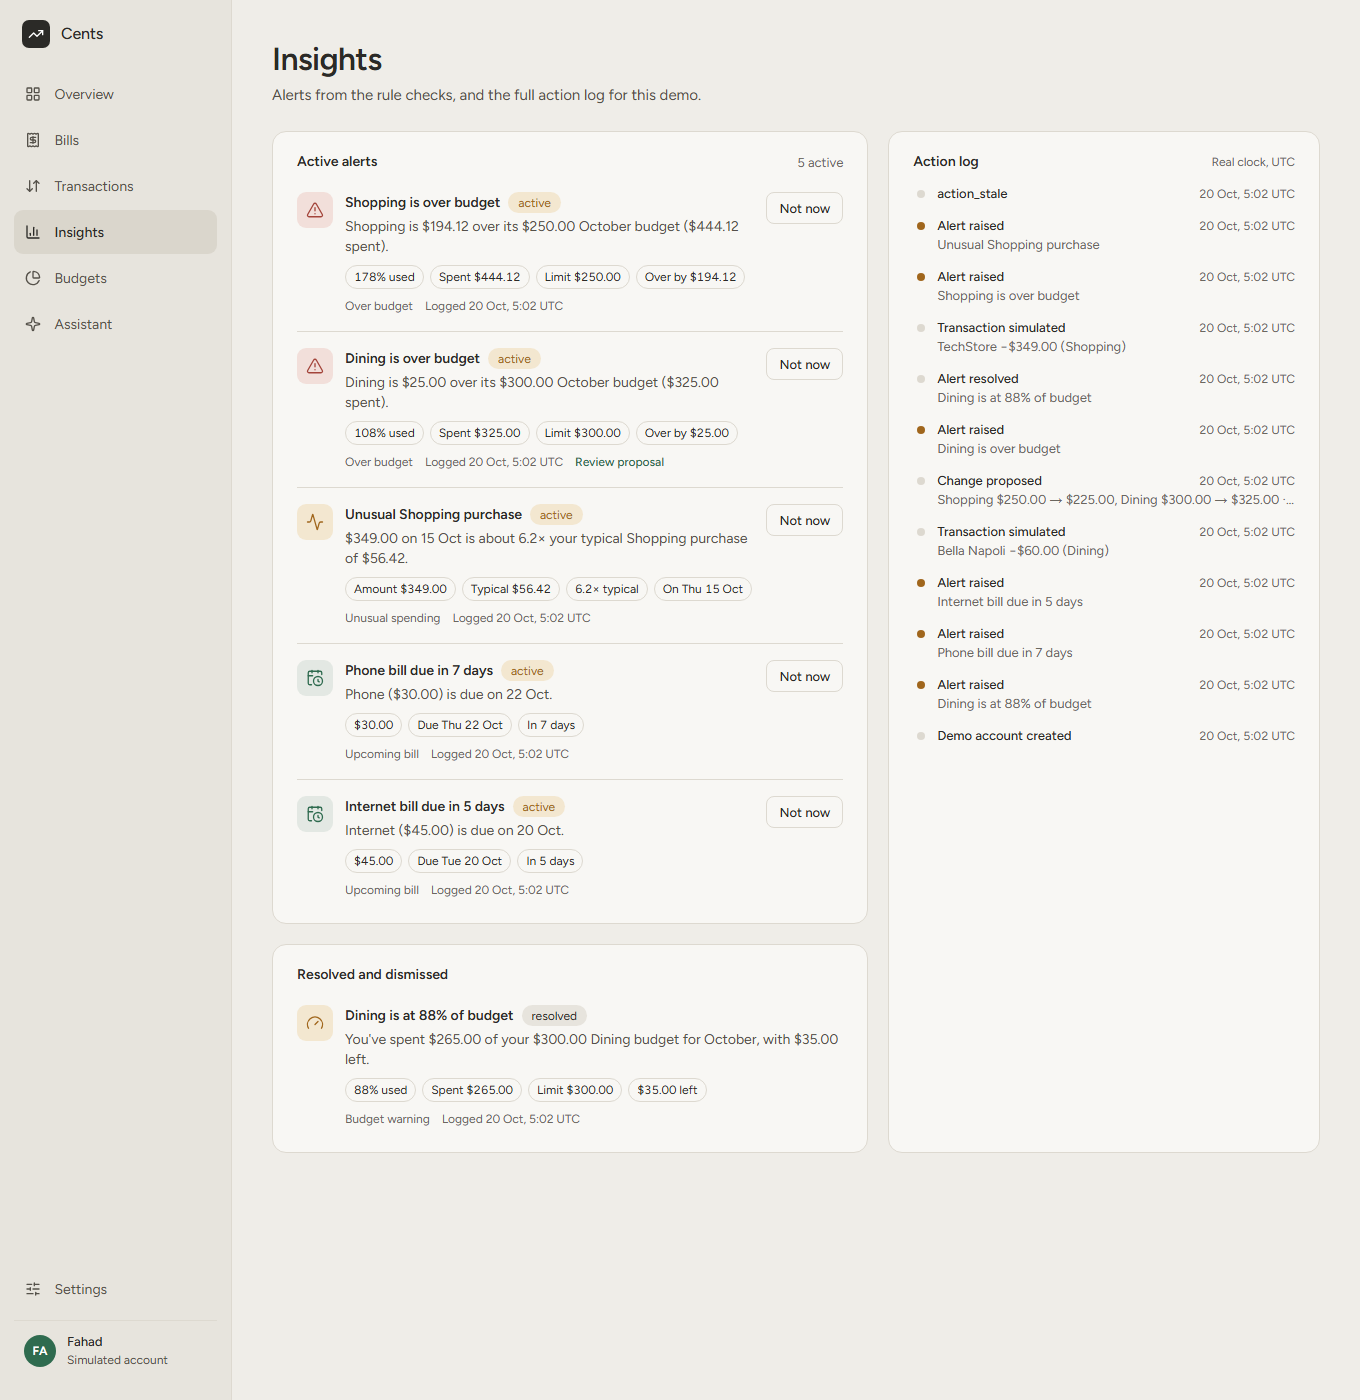
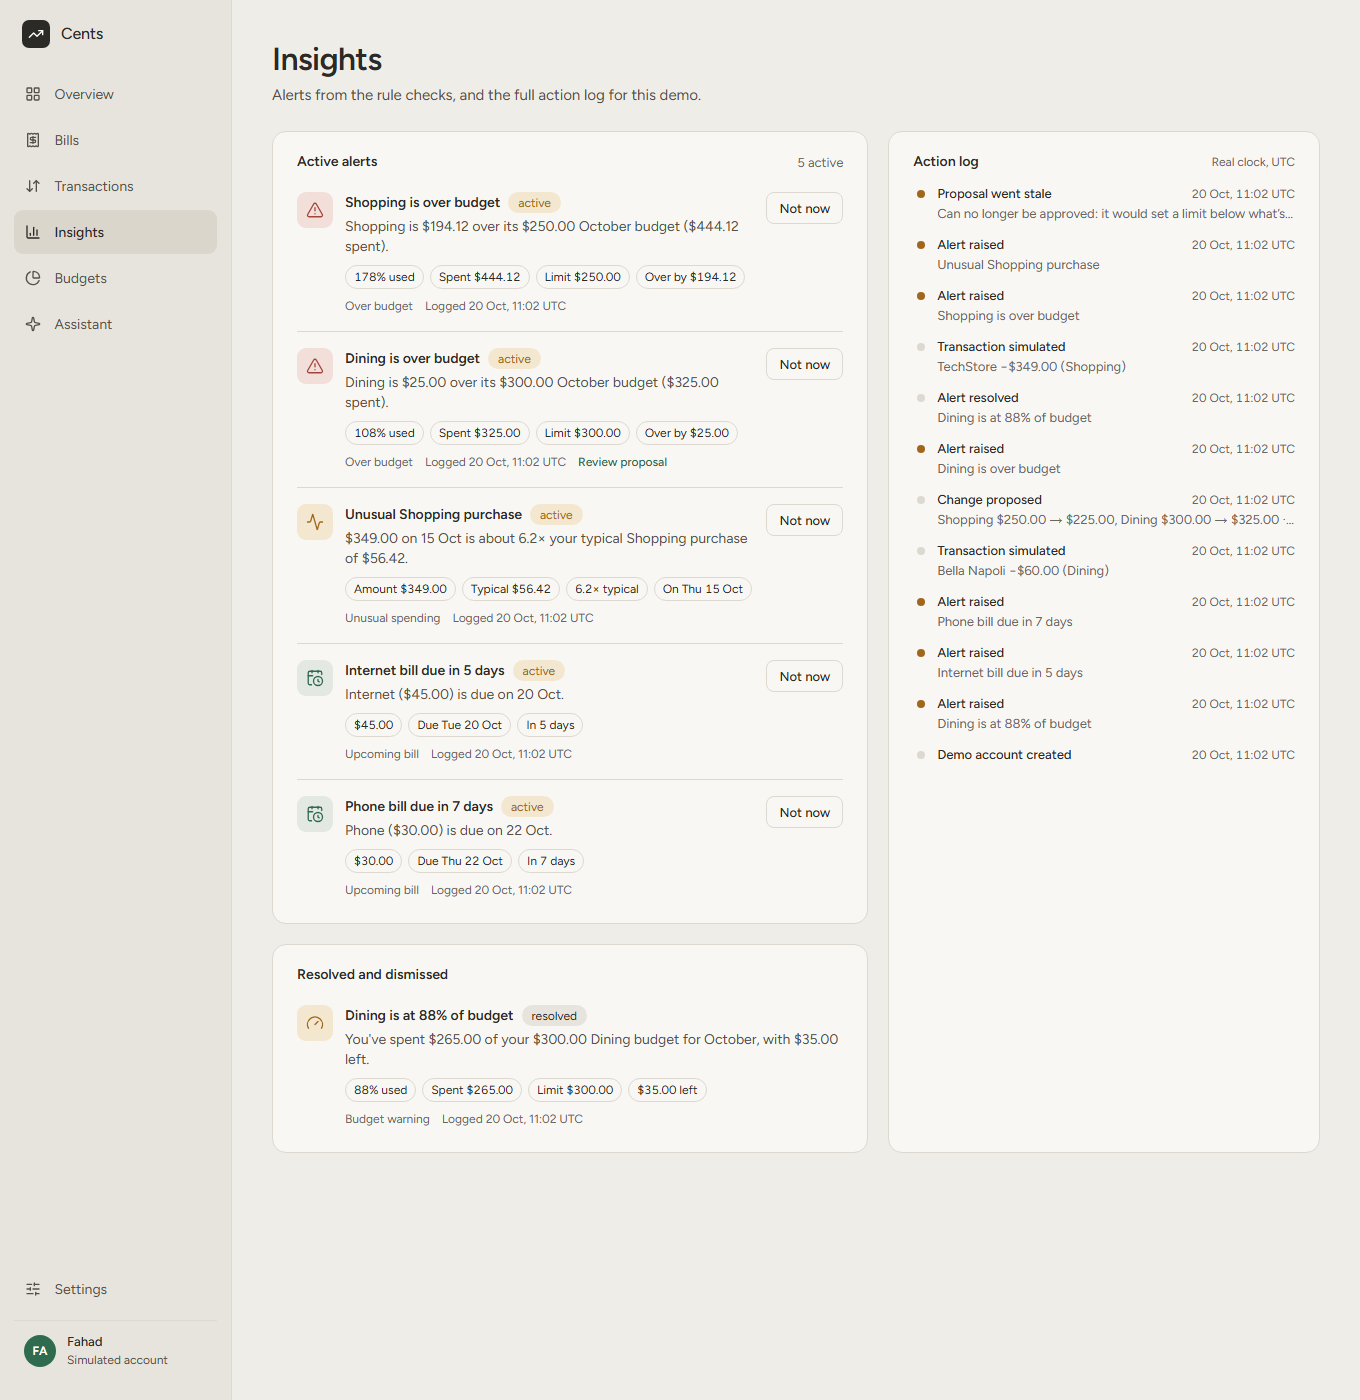
insights: human labels for every action-log event and tool; custom transactions no longer show 'undefined'

diff --git a/src/lib/audit-labels.ts b/src/lib/audit-labels.ts
@@ -1,0 +1,122 @@
+// Human labels for the Insights action log. One entry per audit event (typed, so a new event
+// without a label fails the build). Details never show raw ids or user-typed merchant text.
+import type { AuditEvent } from "./db/audit";
+import { formatUSD } from "./domain/money";
+
+export const EVENT_LABEL: Record<AuditEvent, string> = {
+  session_created: "Demo account created",
+  transaction_simulated: "Transaction simulated",
+  alert_created: "Alert raised",
+  alert_resolved: "Alert resolved",
+  alert_dismissed: "Alert dismissed",
+  action_proposed: "Change proposed",
+  action_approved: "Change approved",
+  action_executed: "Change executed",
+  action_rejected: "Change rejected",
+  action_blocked: "Action blocked",
+  action_stale: "Proposal went stale",
+  demo_reset: "Demo reset",
+  chat_message: "Assistant answered",
+  chat_cleared: "Chat cleared",
+  chat_rate_limited: "Chat rate-limited",
+  reply_verified: "Answer verified",
+  reply_unverified: "Answer partly verified",
+  impact_note_requested: "AI impact note requested",
+  impact_note_completed: "AI impact note ready",
+  simulate_rate_limited: "Custom transaction limit reached",
+};
+
+export const EVENT_TONE: Partial<Record<AuditEvent, string>> = {
+  action_executed: "bg-brand",
+  action_approved: "bg-brand",
+  reply_verified: "bg-brand",
+  action_rejected: "bg-text-muted",
+  action_blocked: "bg-danger",
+  simulate_rate_limited: "bg-danger",
+  alert_created: "bg-warning",
+  action_stale: "bg-warning",
+  reply_unverified: "bg-warning",
+  demo_reset: "bg-ink-bar",
+};
+
+const STALE_REASON: Record<string, string> = {
+  limits_changed: "budgets changed since it was proposed",
+  below_spent: "it would set a limit below what’s already spent",
+  plan_changed: "the fix no longer matches the new spending",
+  invalid: "it’s no longer valid",
+};
+
+/** Plain names for the assistant's tools (and the impact note's server step) in the log. */
+const TOOL_NAME: Record<string, string> = {
+  get_account_summary: "account summary",
+  get_transactions: "transactions",
+  get_spending_by_category: "spending by category",
+  get_budget_status: "budget status",
+  get_upcoming_bills: "upcoming bills",
+  compare_monthly_spending: "month comparison",
+  check_affordability: "affordability check",
+  find_recurring_charges: "recurring charges",
+  analyze_bills: "bill analysis",
+  plan_overrun_fix: "overrun fix plan",
+  get_category_history: "category history",
+  get_proposals: "proposal status",
+  propose_budget_adjustment: "budget proposal",
+  impact_facts: "server fact check",
+};
+const toolName = (t: string) => TOOL_NAME[t] ?? t.replace(/_/g, " ");
+
+const plural = (n: number, word: string) => `${n} ${word}${n === 1 ? "" : "s"}`;
+
+/** Unknown events (older or newer than this code) fall back to their name, made readable. */
+export function eventLabel(event: string): string {
+  return EVENT_LABEL[event as AuditEvent] ?? event.replace(/_/g, " ").replace(/^./, (c) => c.toUpperCase());
+}
+
+export function describeEvent(event: string, d: Record<string, unknown>): string {
+  const money = (v: unknown) => (typeof v === "number" ? formatUSD(v) : "");
+  const num = (v: unknown) => (typeof v === "number" ? v : 0);
+  switch (event) {
+    case "transaction_simulated":
+      // Custom merchant text is user-typed and is logged as a length only.
+      return d.origin === "custom" || typeof d.merchant !== "string"
+        ? `Custom ${money(d.amount_cents)} (${d.category})`
+        : `${d.merchant} ${money(d.amount_cents)} (${d.category})`;
+    case "alert_created":
+    case "alert_resolved":
+    case "alert_dismissed":
+      // Older entries have no title: fall back to the key without its id.
+      return typeof d.title === "string"
+        ? d.title
+        : String(d.dedupe_key ?? d.type ?? "")
+            .split(":")
+            .filter((part) => !/^[0-9a-f-]{36}$/.test(part))
+            .join(" · ")
+            .replace(/_/g, " ");
+    case "action_proposed":
+    case "action_executed": {
+      const changes = (d.changes as { category: string; old_limit_cents: number; new_limit_cents: number }[] | undefined) ?? [];
+      return changes.map((c) => `${c.category} ${money(c.old_limit_cents)} → ${money(c.new_limit_cents)}`).join(", ") + (d.origin ? ` · by ${d.origin}` : "");
+    }
+    case "action_blocked":
+      return `${d.attempted ?? "approve"} refused: ${d.reason}`;
+    case "action_stale":
+      return `Can no longer be approved: ${STALE_REASON[String(d.reason)] ?? String(d.reason ?? "")}`;
+    case "chat_message":
+      return Array.isArray(d.tools) && d.tools.length ? `Used: ${[...new Set((d.tools as string[]).map(toolName))].join(", ")}` : "Answered without tools";
+    case "reply_verified":
+    case "reply_unverified": {
+      const total = num(d.total_count);
+      if (total === 0) return "No figures to check";
+      const retry = d.retried ? " · after one correction" : "";
+      return event === "reply_verified" ? `All ${plural(total, "figure")} checked against the account${retry}` : `${num(d.verified_count)} of ${plural(total, "figure")} matched${retry}`;
+    }
+    case "impact_note_requested":
+      return `For ${plural(Array.isArray(d.transaction_ids) ? d.transaction_ids.length : 1, "new transaction")}`;
+    case "impact_note_completed":
+      return d.failed ? "Couldn’t finish; the dashboard is still up to date" : plural(num(d.tool_count), "step");
+    case "simulate_rate_limited":
+      return `Up to ${num(d.limit_per_hour)} custom transactions per hour`;
+    default:
+      return "";
+  }
+}

diff --git a/src/app/(app)/insights/page.tsx b/src/app/(app)/insights/page.tsx
@@ -8,8 +8,8 @@ import { loadAuditLog } from "@/lib/db/activity";
 import { listAlerts, type AlertRow } from "@/lib/db/alerts-view";
 import { getDb } from "@/lib/db/client";
 import { factLabels } from "@/lib/alert-labels";
+import { EVENT_TONE, describeEvent, eventLabel } from "@/lib/audit-labels";
 import { formatLoggedAt } from "@/lib/domain/dates";
-import { formatUSD } from "@/lib/domain/money";
 import { currentSession } from "@/lib/session";
 import { cn } from "@/lib/utils";
 
@@ -21,57 +21,6 @@ const ALERT_META: Record<string, { icon: LucideIcon; label: string; tone: string
   budget_warning: { icon: Gauge, label: "Budget warning", tone: "text-warning bg-warning-fill" },
   upcoming_bill: { icon: CalendarClock, label: "Upcoming bill", tone: "text-brand bg-brand/10" },
 };
-
-const EVENT_LABEL: Record<string, string> = {
-  session_created: "Demo account created",
-  transaction_simulated: "Transaction simulated",
-  alert_created: "Alert raised",
-  alert_resolved: "Alert resolved",
-  alert_dismissed: "Alert dismissed",
-  action_proposed: "Change proposed",
-  action_approved: "Change approved",
-  action_executed: "Change executed",
-  action_rejected: "Change rejected",
-  action_blocked: "Action blocked",
-  demo_reset: "Demo reset",
-  chat_message: "Assistant answered",
-  chat_cleared: "Chat cleared",
-  chat_rate_limited: "Chat rate-limited",
-};
-
-const EVENT_TONE: Record<string, string> = {
-  action_executed: "bg-brand",
-  action_approved: "bg-brand",
-  action_rejected: "bg-text-muted",
-  action_blocked: "bg-danger",
-  alert_created: "bg-warning",
-  demo_reset: "bg-ink-bar",
-};
-
-function describe(event: string, d: Record<string, unknown>): string {
-  const money = (v: unknown) => (typeof v === "number" ? formatUSD(v) : "");
-  switch (event) {
-    case "transaction_simulated":
-      return `${d.merchant} ${money(d.amount_cents)} (${d.category})`;
-    case "alert_created":
-    case "alert_resolved":
-    case "alert_dismissed":
-      // Older entries have no title: fall back to the key without its id.
-      return typeof d.title === "string" ? d.title : String(d.dedupe_key ?? d.type ?? "").split(":").filter((part) => !/^[0-9a-f-]{36}$/.test(part)).join(" · ").replace(/_/g, " ");
-    case "action_proposed":
-    case "action_executed": {
-      const changes = (d.changes as { category: string; old_limit_cents: number; new_limit_cents: number }[] | undefined) ?? [];
-      return changes.map((c) => `${c.category} ${money(c.old_limit_cents)} → ${money(c.new_limit_cents)}`).join(", ") + (d.origin ? ` · by ${d.origin}` : "");
-    }
-    case "action_blocked":
-      return `${d.attempted ?? "approve"} refused: ${d.reason}`;
-    case "chat_message":
-      return Array.isArray(d.tools) && d.tools.length ? `tools: ${(d.tools as string[]).join(", ")}` : "no tools";
-    default:
-      return "";
-  }
-}
-
 
 function AlertCard({ alert, actions }: { alert: AlertRow; actions?: boolean }) {
   const meta = ALERT_META[alert.type] ?? ALERT_META.budget_warning;
@@ -154,15 +103,15 @@ export default async function InsightsPage() {
           <ol className="mt-3" data-testid="action-log">
             {audit.map((e) => (
               <li key={e.id} className="relative flex gap-3 pb-3 pl-1">
-                <span className={cn("mt-1.5 size-2 shrink-0 rounded-full", EVENT_TONE[e.event] ?? "bg-line")} aria-hidden />
+                <span className={cn("mt-1.5 size-2 shrink-0 rounded-full", EVENT_TONE[e.event as keyof typeof EVENT_TONE] ?? "bg-line")} aria-hidden />
                 <div className="min-w-0 flex-1 text-[13px]">
                   <div className="flex items-baseline justify-between gap-2">
                     <span className="font-medium text-text" data-event={e.event}>
-                      {EVENT_LABEL[e.event] ?? e.event}
+                      {eventLabel(e.event)}
                     </span>
                     <span className="tabular shrink-0 text-[12px] text-text-muted">{formatLoggedAt(e.createdAt)}</span>
                   </div>
-                  {describe(e.event, e.details) && <p className="truncate text-text-muted">{describe(e.event, e.details)}</p>}
+                  {describeEvent(e.event, e.details) && <p className="truncate text-text-muted">{describeEvent(e.event, e.details)}</p>}
                   {e.event === "demo_reset" && <p className="text-[12px] text-text-muted">Epoch {e.epoch} starts</p>}
                 </div>
               </li>

diff --git a/tests/unit/audit-labels.test.ts b/tests/unit/audit-labels.test.ts
@@ -1,0 +1,38 @@
+import { readFileSync } from "node:fs";
+import { describe, expect, it } from "vitest";
+import { EVENT_LABEL, describeEvent, eventLabel } from "@/lib/audit-labels";
+
+// Every event name the AuditEvent union declares (read from the source, so a new event is covered here).
+const declared = [...readFileSync("src/lib/db/audit.ts", "utf8").matchAll(/\|\s*"([a-z_]+)"/g)].map((m) => m[1]);
+
+describe("Insights action-log labels", () => {
+  it("gives every audit event a human label (no raw snake_case shown)", () => {
+    expect(declared.length).toBeGreaterThanOrEqual(20);
+    for (const e of declared) {
+      expect(EVENT_LABEL[e as keyof typeof EVENT_LABEL], e).toBeTruthy();
+      expect(eventLabel(e), e).not.toMatch(/_/);
+    }
+    expect(eventLabel("some_future_event")).toBe("Some future event");
+  });
+
+  it("describes the newer events in plain words", () => {
+    expect(describeEvent("reply_verified", { verified_count: 12, total_count: 12, retried: false })).toBe("All 12 figures checked against the account");
+    expect(describeEvent("reply_verified", { verified_count: 3, total_count: 3, retried: true })).toBe("All 3 figures checked against the account · after one correction");
+    expect(describeEvent("reply_verified", { verified_count: 0, total_count: 0 })).toBe("No figures to check");
+    expect(describeEvent("reply_unverified", { verified_count: 1, total_count: 2, retried: true })).toBe("1 of 2 figures matched · after one correction");
+    expect(describeEvent("action_stale", { reason: "limits_changed" })).toBe("Can no longer be approved: budgets changed since it was proposed");
+    expect(describeEvent("impact_note_requested", { transaction_ids: ["a"] })).toBe("For 1 new transaction");
+    expect(describeEvent("impact_note_completed", { tool_count: 1, failed: false })).toBe("1 step");
+    expect(describeEvent("simulate_rate_limited", { limit_per_hour: 30 })).toBe("Up to 30 custom transactions per hour");
+    expect(describeEvent("chat_message", { tools: ["plan_overrun_fix", "propose_budget_adjustment"] })).toBe("Used: overrun fix plan, budget proposal");
+    expect(describeEvent("chat_message", { tools: ["impact_facts", "get_budget_status", "get_budget_status"] })).toBe("Used: server fact check, budget status");
+    expect(describeEvent("chat_message", { tools: [] })).toBe("Answered without tools");
+  });
+
+  it("never shows a custom transaction's merchant (it isn't logged) or the word undefined", () => {
+    const custom = describeEvent("transaction_simulated", { origin: "custom", category: "Entertainment", amount_cents: -12_000, merchant_length: 15 });
+    expect(custom).toBe("Custom −$120.00 (Entertainment)");
+    expect(describeEvent("transaction_simulated", { origin: "preset", merchant: "Bella Napoli", category: "Dining", amount_cents: -6_000 })).toBe("Bella Napoli −$60.00 (Dining)");
+    expect(describeEvent("transaction_simulated", { category: "Dining", amount_cents: -100 })).not.toContain("undefined");
+  });
+});

diff --git a/tests/e2e/insights-labels.spec.ts b/tests/e2e/insights-labels.spec.ts
@@ -1,0 +1,32 @@
+import { expect, test } from "@playwright/test";
+
+test("the Insights action log shows human labels only (custom transactions included)", async ({ page }) => {
+  await page.goto("/");
+  const res = await page.request.post("/api/simulate", {
+    data: { kind: "custom", type: "expense", category: "Entertainment", amountCents: 12_000, merchant: "Concert tickets", idempotencyKey: crypto.randomUUID() },
+  });
+  expect(res.status()).toBe(201);
+  await page.goto("/insights");
+  const log = page.getByTestId("action-log");
+  await expect(log.getByText("Custom −$120.00 (Entertainment)")).toBeVisible();
+  const text = await log.innerText();
+  expect(text).not.toContain("undefined");
+  // No raw event names like reply_verified or action_stale.
+  expect(text).not.toMatch(/\b[a-z]+_[a-z_]+\b/);
+});
+
+test.describe("with a live AI answer", () => {
+  test.skip(!process.env.RUN_LLM_E2E, "set RUN_LLM_E2E=1 to run tests that call the LLM");
+  test.skip(({ isMobile }) => isMobile, "one live turn is enough (desktop)");
+
+  test("verification and tool names read as plain words", async ({ page }) => {
+    await page.goto("/");
+    const turn = await page.request.post("/api/chat", { data: { message: "Can I afford a $900 purchase?" }, timeout: 90_000 });
+    expect(turn.status()).toBe(200);
+    await page.goto("/insights");
+    const log = page.getByTestId("action-log");
+    await expect(log.getByText("Answer verified").first()).toBeVisible();
+    await expect(log.getByText(/Used: affordability check/).first()).toBeVisible();
+    expect(await log.innerText()).not.toMatch(/\b[a-z]+_[a-z_]+\b/);
+  });
+});
